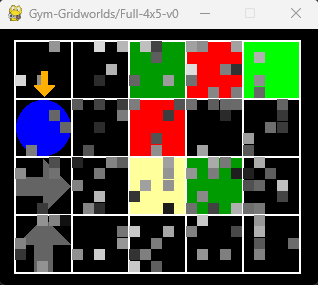
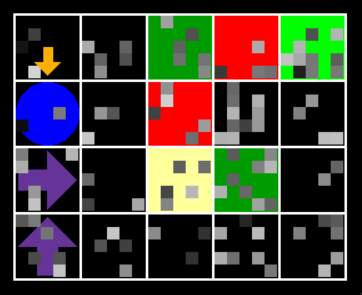
one-dir tiles are purple, walls are gray

diff --git a/gym_gridworlds/gridworld.py b/gym_gridworlds/gridworld.py
@@ -84,7 +84,7 @@ COLORMAP[GOOD_SMALL] = Color.DARK_GREEN
 COLORMAP[GOOD] = Color.GREEN
 COLORMAP[BAD] = Color.RED
 COLORMAP[BAD_SMALL] = Color.PALE_RED
-COLORMAP[WALL] = Color.PURPLE
+COLORMAP[WALL] = Color.GRAY
 COLORMAP[PIT] = Color.WHITE
 for action in ACTION_TO_VEC:
     COLORMAP[action] = Color.BLACK
@@ -256,8 +256,8 @@ class Gridworld(gym.Env):
 
     - Black: empty tiles
     - White: pits
-    - Purple: walls
-    - Black with gray arrow: empty one-directional tile
+    - Gray: walls
+    - Black with purple arrow: empty one-directional tile
     - Green: goal
     - Pale green: distracting goal
     - Red: penalty tiles
@@ -618,7 +618,7 @@ class Gridworld(gym.Env):
                     )
                     pygame.draw.polygon(
                         self.window_surface,
-                        Color.GRAY,
+                        Color.PURPLE,
                         (start_pos, center),
                         arrow_width,
                     )
@@ -627,7 +627,7 @@ class Gridworld(gym.Env):
                         ((self.tile_size // 2 - self.white_pad_size),) * 2,
                         self.grid[y][x],
                     )
-                    pygame.draw.polygon(self.window_surface, Color.GRAY, arr_pos, 0)
+                    pygame.draw.polygon(self.window_surface, Color.PURPLE, arr_pos, 0)
 
                 # some pixels are white noise
                 if self.observation_noise > 0.0:

diff --git a/README.md b/README.md
@@ -46,22 +46,22 @@ to render the `Full-4x5-v0` gridworld (middle figure), and
 ```python
 import gymnasium
 import gym_gridworlds
-env = gymnasium.make("Gym-Gridworlds/DangerMaze-6x6-v0", render_mode="human")
+env = gymnasium.make("Gym-Gridworlds/DangerMaze-5x6-v0", render_mode="human")
 env.reset()
 env.step(2) # DOWN
 ```
-to render the `DangerMaze-6x6-v0` gridworld (right figure).
+to render the `DangerMaze-5x6-v0` gridworld (right figure).
 
 <p align="center">
   <img src="figures/gridworld_penalty_3x3.png" width="170" alt="Gridworld Penalty"> &nbsp;&nbsp;&nbsp;&nbsp;&nbsp;
   <img src="figures/gridworld_full_4x5.png" width="220" alt="Gridworld Full"> &nbsp;&nbsp;&nbsp;&nbsp;&nbsp;
-  <img src="figures/gridworld_danger_maze_6x6.png" width="215" alt="Gridworld Full">
+  <img src="figures/gridworld_danger_maze_5x6.png" width="215" alt="Gridworld Full">
 </p>
 
 - Black tiles are empty,
 - White tiles are pits (walking on them yields a large negative reward and the episode ends),
-- Purple tiles are walls (the agent cannot step on them),
-- Black tiles with gray arrows are tiles where the agent can move only in one direction (other actions will fail),
+- Gray tiles are walls (the agent cannot step on them),
+- Black tiles with purple arrows are tiles where the agent can move only in one direction (other actions will fail),
 - Red tiles give negative rewards,
 - Green tiles give positive rewards (the brighter, the higher),
 - Yellow tiles are quicksand, where all actions will fail with 90% probability,
